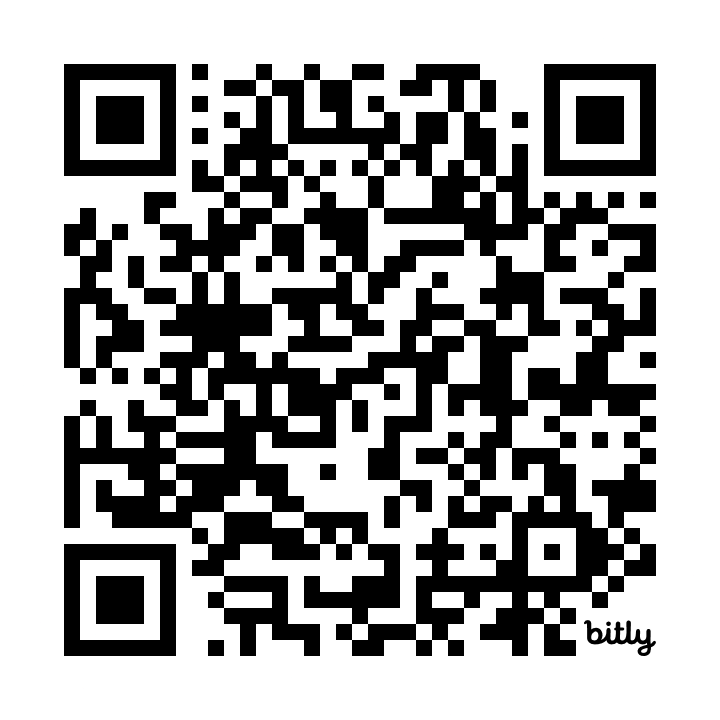
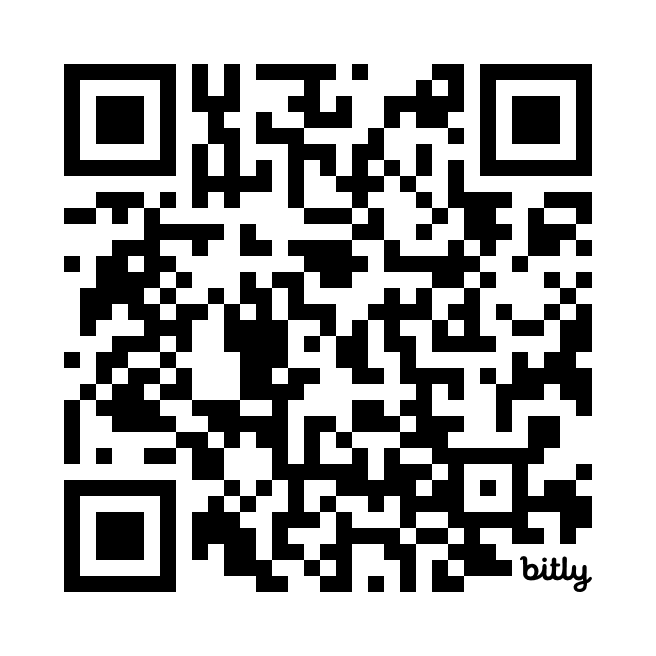
update bitly

diff --git a/index.md b/index.md
@@ -536,4 +536,4 @@ Total: over 1000 units
 
 <img width="50%" src="https://rectalogic.com/asbury-park-housing/qr.png">
 
-https://bit.ly/asburypark-housing
+https://bit.ly/ap-housing
